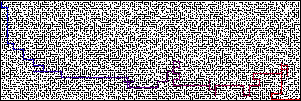
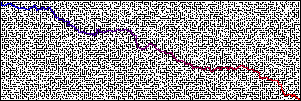
🚀 YAY! Working line-based solver ./line

diff --git a/src/solve_line.cpp b/src/solve_line.cpp
@@ -14,10 +14,10 @@ private:
 
 public:
     // constructor from coordinates
-    Position(int _x, int _y, int _distance) : Point(_x, _y), m_distance(_distance) {}
+    Position(int _x, int _y, int _distance = 1) : Point(_x, _y), m_distance(_distance) {}
 
     // constructor from base ecn::Point
-    Position(ecn::Point p) : Point(p.x, p.y) {}
+    Position(ecn::Point p, int _distance = 1) : Point(p.x, p.y), m_distance(_distance) {}
 
     int distToParent()
     {
@@ -38,7 +38,7 @@ public:
         // Create new variables for Position, to prevent modifying the current node
         int new_x;
         int new_y;
-        int distance = 1;
+        int distance;
         
         // Loop through four DIRECTIONS and loop until a wall is met in each direction
         for (int i = 0 ; i < 4 ; i++) {
@@ -49,10 +49,10 @@ public:
                     new_y = y;
                     if(!maze.isFree(new_x, new_y)) break;
                     while (maze.isFree(new_x, new_y)) {
-                        new_x = new_x + distance;
+                        new_x = new_x + 1;
                         distance++;
                     }
-                    generated.push_back(std::make_unique<Position>(new_x - 1, new_y, distance - 1));
+                    generated.push_back(std::make_unique<Position>(x + 1, y, distance - 1));
                     break;
                 case(1):
                     distance = 1;
@@ -60,10 +60,10 @@ public:
                     new_y = y;
                     if(!maze.isFree(new_x, new_y)) break;
                     while (maze.isFree(new_x, new_y)) {
-                        new_x = new_x - distance;
+                        new_x = new_x - 1;
                         distance++;
                     }
-                    generated.push_back(std::make_unique<Position>(new_x + 1, new_y, distance - 1));
+                    generated.push_back(std::make_unique<Position>(x - 1, y, distance - 1));
                     break;
                 case(2):
                     distance = 1;
@@ -71,10 +71,10 @@ public:
                     new_y = y + distance;
                     if(!maze.isFree(new_x, new_y)) break;
                     while (maze.isFree(new_x, new_y)) {
-                        new_y = new_y + distance;
+                        new_y = new_y + 1;
                         distance++;
                     }
-                    generated.push_back(std::make_unique<Position>(new_x, new_y - 1, distance - 1));
+                    generated.push_back(std::make_unique<Position>(x, y + 1, distance - 1));
                     break;
                 case(3):
                     distance = 1;
@@ -82,10 +82,10 @@ public:
                     new_y = y - distance;
                     if(!maze.isFree(new_x, new_y)) break;
                     while (maze.isFree(new_x, new_y)) {
-                        new_y = new_y - distance;
+                        new_y = new_y - 1;
                         distance++;
                     }
-                    generated.push_back(std::make_unique<Position>(new_x, new_y + 1, distance - 1));
+                    generated.push_back(std::make_unique<Position>(x, y - 1, distance - 1));
                     break;
             }
         }
